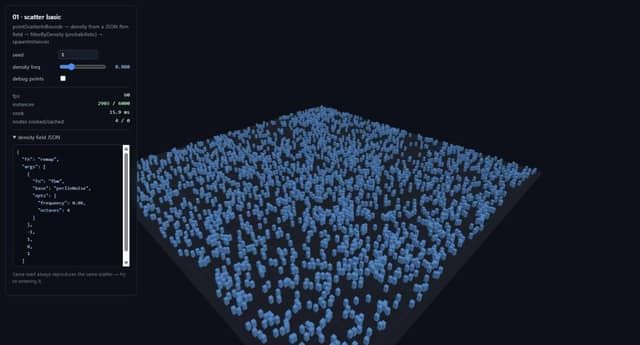
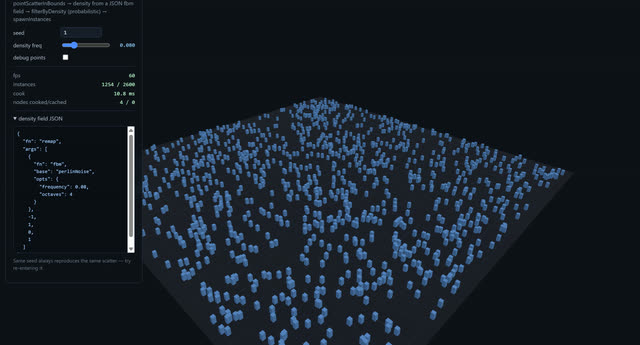
example(01-scatter-basic): scatter fewer candidates, recapture
At 6000 candidates the survivors read as a solid mass, which hides the
one thing this example exists to show -- a density field thinning a
scatter. The UI could not fix it: the density-frequency slider changes
the noise scale, not the amount, and moves the survivor count only from
2903 to 3361 across its whole range. So the count itself comes down,
6000 -> 2600, and the clearings are now visible.

Every reference moved with it, since the numbers are cited in prose:

- manual alt text and figcaption: 2903 of 6000 -> 1254 of 2600, and the
  figure's declared dimensions match the new 2x capture
- landing card alt text no longer says "a dense field"
- carousel hero and tile, landing thumb, manual asset all recaptured at
  2x through the same puppeteer harness as the rest

1570 tests still green; hosted demos rebuilt.

Claude-Session: https://claude.ai/code/session_01AnHyh5uLVsSsmfcQ2RknrG

Changed region(s): [[0.0, 0.0, 0.9062, 1.0], [0.0312, 0.6667, 0.0625, 0.7246]]

diff --git a/docs/index.html b/docs/index.html
@@ -544,7 +544,7 @@ console.<span class="n">log</span>(result.stats);  <span class="c">// { cooked: 
     <h2>Nine demos, live in your browser</h2>
     <p>Each one is the real library cooking real graphs — click to run. Also browsable from the <a href="https://c4rl05.github.io/pcg-ts/examples/">demo index</a>.</p>
     <div class="examples">
-      <a class="example" href="https://c4rl05.github.io/pcg-ts/examples/01-scatter-basic/"><img src="./thumbs/01-scatter-basic.jpg" width="640" height="345" loading="lazy" decoding="async" alt="A dense field of small points scattered across a dark plane, thinned by noise, with a stats panel showing cook time and point count."><span class="meta"><b>01 · scatter</b><span>plane + density noise, the minimal cook loop</span></span></a>
+      <a class="example" href="https://c4rl05.github.io/pcg-ts/examples/01-scatter-basic/"><img src="./thumbs/01-scatter-basic.jpg" width="640" height="345" loading="lazy" decoding="async" alt="Small points scattered across a dark plane and thinned by a noise field, leaving visible clearings, with a stats panel showing the surviving count and cook time."><span class="meta"><b>01 · scatter</b><span>plane + density noise, the minimal cook loop</span></span></a>
       <a class="example" href="https://c4rl05.github.io/pcg-ts/examples/02-forest/"><img src="./thumbs/02-forest.jpg" width="640" height="345" loading="lazy" decoding="async" alt="A hilly dark-brown terrain covered in thousands of bright green conifers, thinning out on steep slopes, beside a panel showing 4,246 pine and 1,666 bush composed on the GPU across 2 resident runs of 4 fused members, with 0 B of matrices uploaded."><span class="meta"><b>02 · forest</b><span>terrain sampling, slope/altitude filters, and multi-asset instancing — both species composed on the GPU, one buffer each, no readback</span></span></a>
       <a class="example" href="https://c4rl05.github.io/pcg-ts/examples/03-spline-fence/"><img src="./thumbs/03-spline-fence.jpg" width="640" height="345" loading="lazy" decoding="async" alt="Fence posts placed at even intervals along a curving spline, each rotated to follow the curve's tangent."><span class="meta"><b>03 · spline fence</b><span>spline sampling, posts oriented along the tangent in one graph</span></span></a>
       <a class="example" href="https://c4rl05.github.io/pcg-ts/examples/04-infinite-world/"><img src="./thumbs/04-infinite-world.jpg" width="640" height="345" loading="lazy" decoding="async" alt="A landscape of scattered instances streaming around a moving camera, with a panel showing cooked and evicted cell counts."><span class="meta"><b>04 · infinite world</b><span>hierarchical streaming around a moving camera — with a GPU toggle showing combinator-authored fields reaching the device</span></span></a>

diff --git a/docs/examples/assets/01-scatter-basic-BMBPx3i7.js b/docs/examples/assets/01-scatter-basic-BMBPx3i7.js
@@ -1,0 +1,1 @@
+import{Br as e,H as t,Hr as n,Jr as r,Ot as i,Rr as a,Rt as o,U as s,Zr as c,a as l,ai as u,ii as d,t as f,yt as p}from"./fps-Dy6QHLSh.js";import{t as m}from"./instanced-BcGbcKF0.js";import{t as h}from"./debug-V8YDvbof.js";import{t as g}from"./overlay-DGfJn5rn.js";import{t as _}from"./recook-DLZ34zXJ.js";import{t as v}from"./scene-sG64tVS9.js";var y=25,b=2600;function x(e){return{fn:`remap`,args:[{fn:`fbm`,base:`perlinNoise`,opts:{frequency:e,octaves:4}},-1,1,0,1]}}var S=1,C=.08,w=new u(S),T=w.add(r,{count:b,boundsMin:[-25,0,-25],boundsMax:[y,0,y]}),E=w.add(e,{name:`density`,domain:`point`,type:`f32`,tupleSize:1,value:c(x(C))}),D=w.add(n,{mode:`probabilistic`}),O=w.add(a,{assetId:`box`});w.connect(T,`out`,E,`in`),w.connect(E,`out`,D,`in`),w.connect(D,`out`,O,`in`),w.output(O,`instances`,`instances`),w.output(O,`points`,`points`);var{scene:k,start:A}=v({cameraPosition:[34,26,34]}),j=new p(new o(52,52),new i({color:1712688,roughness:1}));j.rotation.x=-Math.PI/2,j.position.y=-.02,k.add(j),k.add(new t(50,25,2898514,1976633));var M={box:{geometry:new l(.35,.7,.35).translate(0,.35,0),material:new i({color:7320063,roughness:.7})}},N=new s;k.add(N);var P=[],F,I=!1,L=g({title:`01 · scatter basic`,info:`pointScatterInBounds → density from a JSON fbm field → filterByDensity (probabilistic) → spawnInstances`}),R=L.addCollapsible(`density field JSON`,!0),z=L.addStat(`fps`),B=L.addStat(`instances`),V=L.addStat(`cook`),H=L.addStat(`nodes cooked/cached`);function U(){R.textContent=JSON.stringify(x(C),null,2)}U();var W=_(async()=>{let e=await d(w),t=e.outputs.instances.find(e=>e.kind===`instances`),n=e.outputs.points.find(e=>e.kind===`geometry`);for(let e of P)N.remove(e),e.dispose();P=t?m(t.batches,M):[];for(let e of P)N.add(e);F&&(k.remove(F),F.geometry.dispose(),F.material.dispose()),F=n?h(n.geo,{size:.25}):void 0,F&&(F.position.y=.9,F.visible=I,k.add(F)),B(`${n?.geo.pointCount??0} / ${b}`),V(`${e.stats.elapsedMs.toFixed(1)} ms`),H(`${e.stats.cooked} / ${e.stats.cached}`)});L.addSeed(S,e=>{S=e,w.setSeed(S),W()}),L.addSlider(`density freq`,{min:.02,max:.3,step:.005,value:C,format:e=>e.toFixed(3)},e=>{C=e,w.setParam(E,`value`,c(x(C))),U(),W()}),L.addCheckbox(`debug points`,I,e=>{I=e,F&&(F.visible=e)}),L.addNote(`Same seed always reproduces the same scatter — try re-entering it.`);var G=f(e=>z(e));W(),A(()=>G());

diff --git a/docs/manual.html b/docs/manual.html
@@ -578,9 +578,9 @@ graph.<span class="n">output</span>(spawn, <span class="s">"instances"</span>, <
 
     <h3 id="ex-01">01 · Scatter basic — the minimal cook loop</h3>
     <figure>
-      <img src="manual-assets/01-scatter-basic.jpg" width="1454" height="783" loading="lazy" decoding="async"
-           alt="The scatter-basic demo: a control panel on the left shows seed, density frequency and a debug-points toggle above live stats reading 60 fps, 2903 of 6000 instances, 15.9 ms cook, 4 nodes cooked and 0 cached, with the density field's JSON spec printed below. The 3D viewport shows a dark ground plane densely covered with pale blue instanced boxes, clumped and thinned by the noise field." />
-      <figcaption><b>01 · scatter basic</b> — 2903 of 6000 candidates survived the probabilistic density filter, and the exact JSON that produced the density field is printed in the panel.</figcaption>
+      <img src="manual-assets/01-scatter-basic.jpg" width="2800" height="1720" loading="lazy" decoding="async"
+           alt="The scatter-basic demo: a control panel on the left shows seed, density frequency and a debug-points toggle above live stats reading 60 fps, 1254 of 2600 instances, a 10.8 ms cook, 4 nodes cooked and 0 cached, with the density field's JSON spec printed below. The 3D viewport shows a dark ground plane densely covered with pale blue instanced boxes, clumped and thinned by the noise field." />
+      <figcaption><b>01 · scatter basic</b> — 1254 of 2600 candidates survived the probabilistic density filter, and the exact JSON that produced the density field is printed in the panel.</figcaption>
     </figure>
     <p>The smallest complete pipeline: scatter uniformly in a box, write a <code>density</code> attribute from an fBm field built with <code>fieldFromJson</code>, drop points probabilistically against that density, spawn the survivors. It is the demo to read first because nothing is hidden — the field spec on screen is the literal parameter the graph cooks with, and re-entering the same seed reproduces the same scatter exactly.</p>
     <p class="demo-links">

diff --git a/docs/examples/01-scatter-basic/index.html b/docs/examples/01-scatter-basic/index.html
@@ -5,7 +5,7 @@
   <meta name="viewport" content="width=device-width, initial-scale=1" />
   <title>pcg-ts — 01 scatter basic</title>
   <style>html, body { margin: 0; height: 100%; background: #0d1117; overflow: hidden; }</style>
-  <script type="module" crossorigin src="../assets/01-scatter-basic-D3kX-wA5.js"></script>
+  <script type="module" crossorigin src="../assets/01-scatter-basic-BMBPx3i7.js"></script>
   <link rel="modulepreload" crossorigin href="../assets/fps-Dy6QHLSh.js">
   <link rel="modulepreload" crossorigin href="../assets/instanced-BcGbcKF0.js">
   <link rel="modulepreload" crossorigin href="../assets/debug-V8YDvbof.js">

diff --git a/examples/01-scatter-basic/main.ts b/examples/01-scatter-basic/main.ts
@@ -35,7 +35,11 @@ import { makeRecooker } from "../shared/recook.js";
 import { createScene } from "../shared/scene.js";
 
 const AREA = 25; // scatter half-extent in world units
-const COUNT = 6000;
+// Candidates before the density filter. Kept modest on purpose: at
+// 6000 the survivors read as a solid mass and the thinning the
+// density field is doing stops being visible, which is the one thing
+// this example exists to show.
+const COUNT = 2600;
 
 // -- density field as a JSON spec (the agent-facing grammar) ---------------
 
